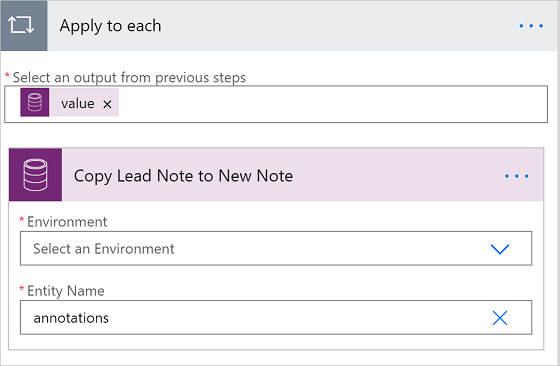
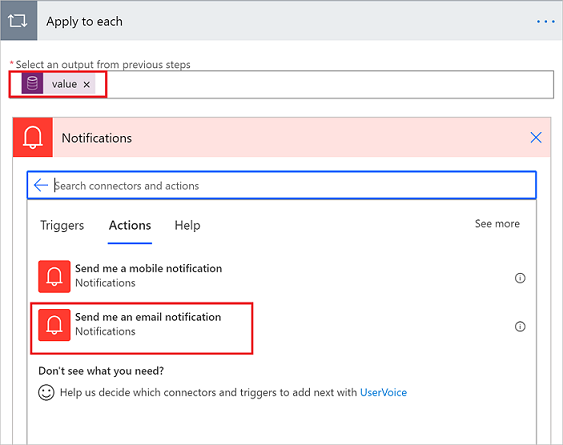
updates

diff --git a/articles/common-data-model-intro.md b/articles/common-data-model-intro.md
@@ -1,6 +1,6 @@
 ---
 title: Common Data Service | Microsoft Docs
-description: Create a flow to import data, export data, or build approvals with Common Data Service.
+description: Create a flow from a template that uses Common Data Service.
 services: ''
 suite: flow
 documentationcenter: na
@@ -23,14 +23,15 @@ search.audienceType:
 ---
 # Create a flow that uses Common Data Service
 
-Improve operational efficiency with a unified view of business data by creating a flow that uses [Common Data Service](https://powerapps.microsoft.com/tutorials/data-platform-intro/). 
+Improve operational efficiency with a unified view of business data by creating flows that use [Common Data Service](https://powerapps.microsoft.com/tutorials/data-platform-intro/). 
 
-Deploy this secure business database that comprises of well-formed standard business entities (such as sales, purchase, customer service, and productivity) in your organization. Store organizational data in one or more [custom entities](https://powerapps.microsoft.com/tutorials/data-platform-create-entity/), which offer several benefits over external data sources such as Microsoft Excel and Salesforce.
 
-For example, you can leverage Common Data Service within Power Automate in these key ways:
+For example, you can use Common Data Service within Power Automate in these key ways:
 
-* Create a flow to import data, export data, or take action when data (such as sending a notification) changes. Note that this approach isn't a full synchronization service; it simply allows you to move data in or out on a per-entity basis. For detailed steps, see the procedures later in this topic.
-* Instead of [creating an approval loop through email](wait-for-approvals.md), create a flow that stores approval state in an entity, and build a custom app in which users can approve or reject items. For detailed steps, see [Build an approval loop with Common Data Service](common-data-model-approve.md).
+* Create a flow to import data, export data, or take action (such as sending a notification) when data  changes. For detailed steps, see the procedures later in this topic.
+* Instead of [creating an approval loop through email](wait-for-approvals.md), create a flow that stores approval state in an entity, and then build a custom app in which users can approve or reject items. For detailed steps, see [Build an approval loop with Common Data Service](common-data-model-approve.md).
+
+In this article, you will create a flow that sends an email notification when a *Qualified Lead Process* creates a new *Opportunity* in Common Data Service. The notification includes the *Notes* from the *Lead*.
 
 ## Prerequisites
 
@@ -81,7 +82,7 @@ For example, you can leverage Common Data Service within Power Automate in these
    
     ![Get Opportunity Record](./media/common-data-model-intro/get-opportunity-record.png)
 
-1. Confirm the **Originate from a Lead** card. 
+1. Configure the **Originate from a Lead** card. 
    
     ![Originate from a Lead](./media/common-data-model-intro/originate-from-lead.png)
 
@@ -89,12 +90,17 @@ For example, you can leverage Common Data Service within Power Automate in these
 
    ![Complete decision branch](./media/common-data-model-intro/get-lead-list-notes.png)
 
-1. ddfdf
+1. Expand the **Apply to each** card, and then  delete the **Copy Lead Note to New Note** card.
 
-   ![todo](./media/common-data-model-intro/apply-to-each.png)
- 
+1. Select **Add an action**, search for **notification**, and then select **Send me an email notification**.
 
-Now, whenever that object is created in the source system, it will be imported into Common Data Service. If you can't find a template that does what you need, you can [build a flow from scratch](get-started-logic-flow.md) that operates on top of Common Data Service.
+   ![Email notification](./media/common-data-model-intro/apply-to-each.png)
 
-You can take actions on changes in the database. For example, you can send notification mail whenever data changes.
+1. Configure the notification card to send you an email notification with the details of the notes for the lead.
+
+   ![The notification card](./media/common-data-model-intro/notification-card.png)
+
+
+>[!TIP]
+>If you can't find a template that does what you need, you can [build a flow from scratch](get-started-logic-flow.md) that operates on top of Common Data Service.
 
